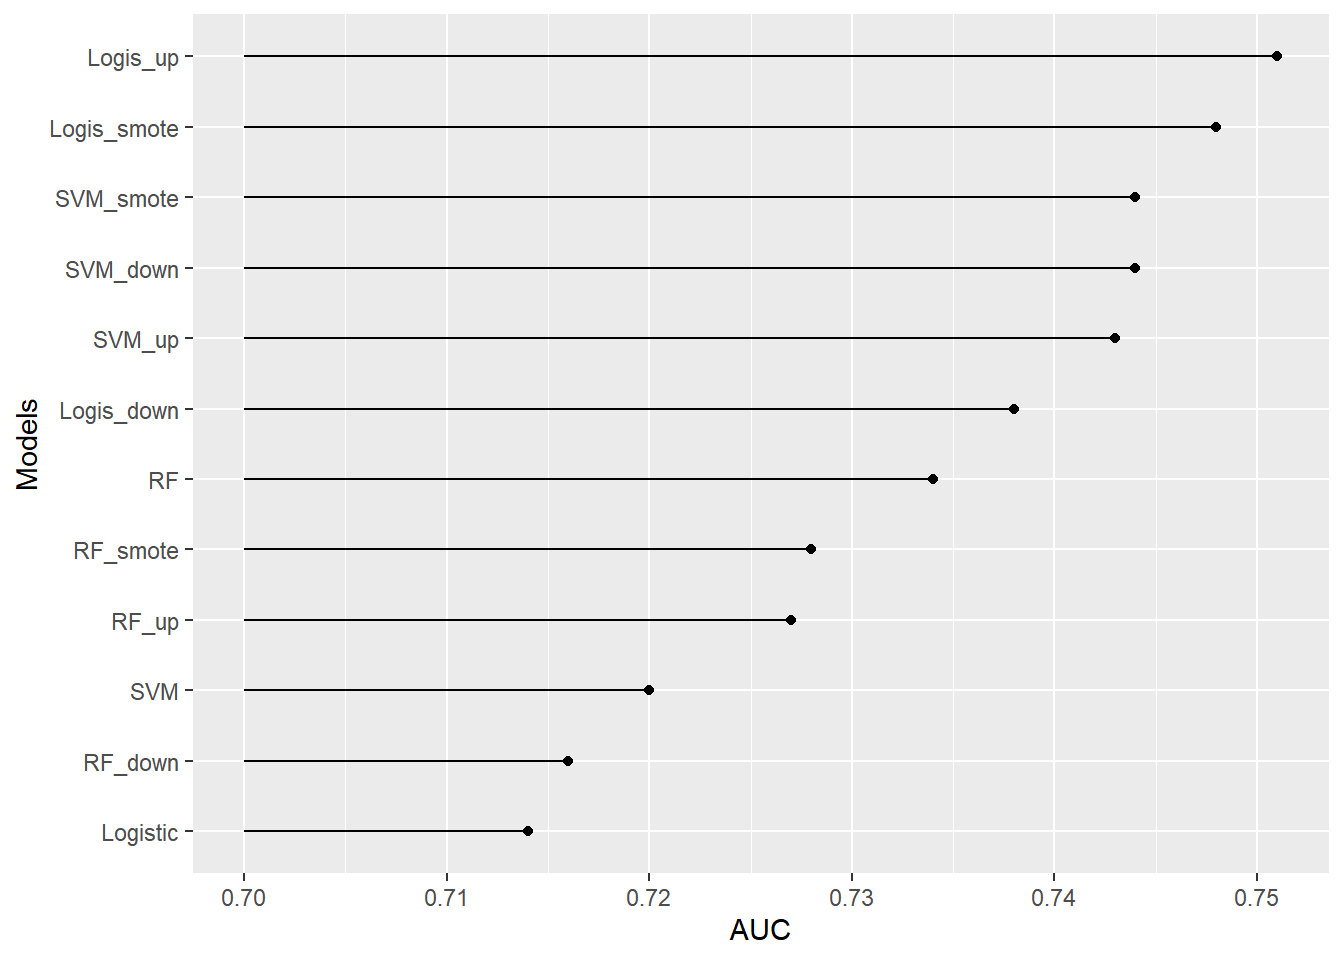
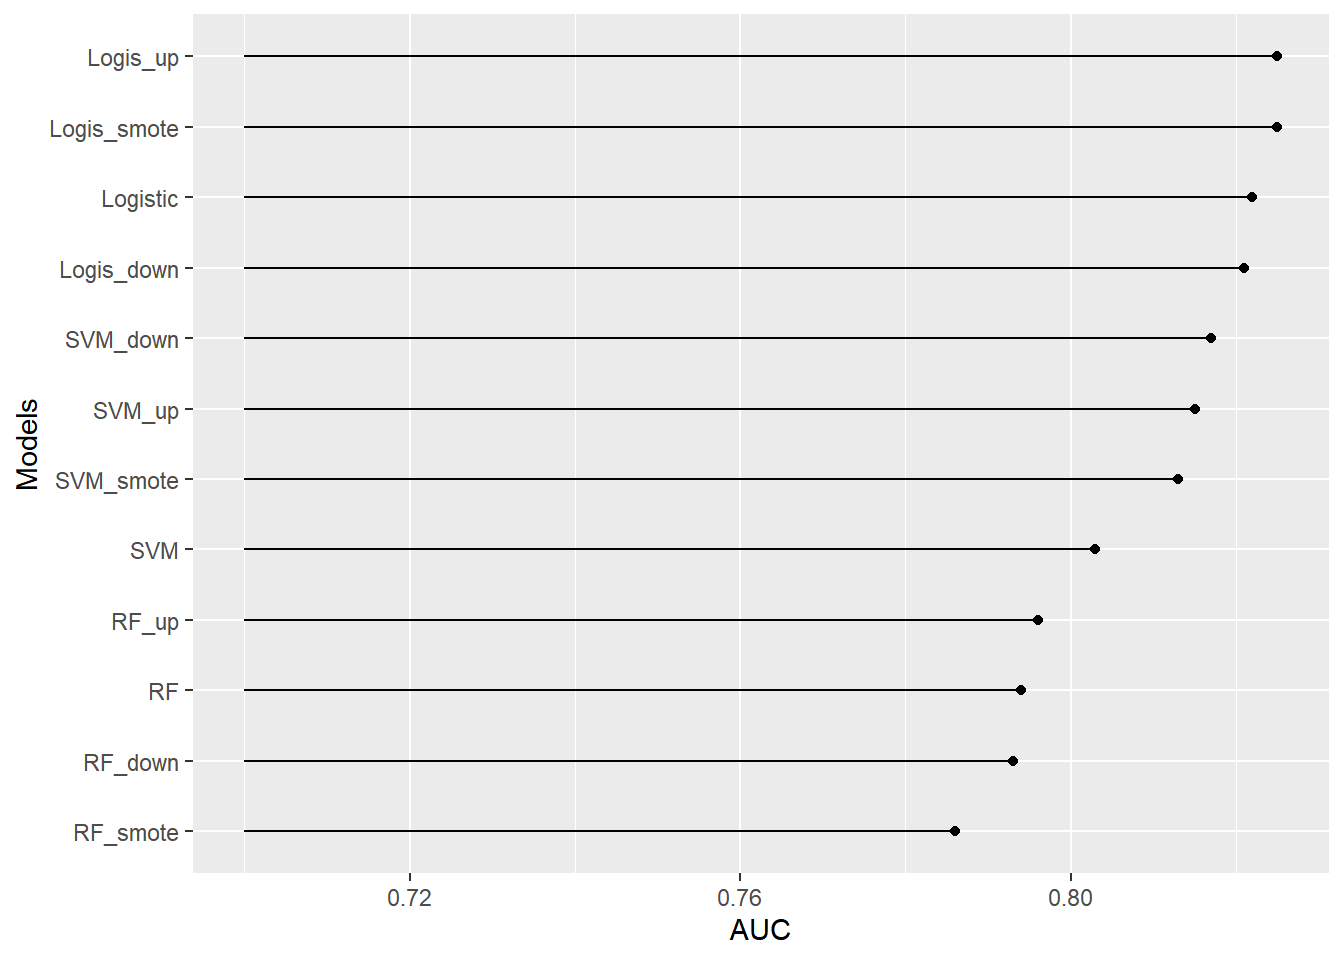
edit post

diff --git a/content/post/2024-02-16-classifying-depressed-and-healthy-controls/index.en.md b/content/post/2024-02-16-classifying-depressed-and-healthy-controls/index.en.md
@@ -1133,7 +1133,7 @@ for (num in 1:length(model_list)) {
     spe <- spe %>% append(confus$byClass[["Specificity"]])
     ppv <- ppv %>% append(confus$byClass[["Pos Pred Value"]])
     npv <- npv %>% append(confus$byClass[["Neg Pred Value"]])
-    ROC <- pROC::roc(as.numeric(test_set$group), as.numeric(prediction))
+    ROC <- pROC::roc(test_set$group, predict(model_list[[num]], test_set, type = "prob")[,"condition"])
     auc <- auc %>% append(pROC::auc(ROC))
 }
 
@@ -1156,18 +1156,18 @@ metric %>%
 
 ```
 ##          Model Accuracy Balance_ACC Sensitivity Specificity   PPV   NPV   AUC
-## 1     RF_smote    0.727       0.728       0.737       0.719 0.652 0.794 0.728
-## 2        RF_up    0.727       0.727       0.727       0.727 0.655 0.789 0.727
-## 3      RF_down    0.714       0.716       0.727       0.705 0.637 0.784 0.716
-## 4       SVM_up    0.748       0.743       0.717       0.770 0.689 0.793 0.743
-## 5   Logis_down    0.744       0.738       0.707       0.770 0.686 0.787 0.738
-## 6     Logis_up    0.761       0.751       0.697       0.806 0.719 0.789 0.751
-## 7  Logis_smote    0.756       0.748       0.697       0.799 0.711 0.787 0.748
-## 8     SVM_down    0.752       0.744       0.697       0.791 0.704 0.786 0.744
-## 9    SVM_smote    0.752       0.744       0.697       0.791 0.704 0.786 0.744
-## 10          RF    0.752       0.734       0.626       0.842 0.738 0.760 0.734
-## 11    Logistic    0.735       0.714       0.586       0.842 0.725 0.741 0.714
-## 12         SVM    0.744       0.720       0.576       0.863 0.750 0.741 0.720
+## 1     RF_smote    0.727       0.728       0.737       0.719 0.652 0.794 0.786
+## 2        RF_up    0.727       0.727       0.727       0.727 0.655 0.789 0.796
+## 3      RF_down    0.714       0.716       0.727       0.705 0.637 0.784 0.793
+## 4       SVM_up    0.748       0.743       0.717       0.770 0.689 0.793 0.815
+## 5   Logis_down    0.744       0.738       0.707       0.770 0.686 0.787 0.821
+## 6     Logis_up    0.761       0.751       0.697       0.806 0.719 0.789 0.825
+## 7  Logis_smote    0.756       0.748       0.697       0.799 0.711 0.787 0.825
+## 8     SVM_down    0.752       0.744       0.697       0.791 0.704 0.786 0.817
+## 9    SVM_smote    0.752       0.744       0.697       0.791 0.704 0.786 0.813
+## 10          RF    0.752       0.734       0.626       0.842 0.738 0.760 0.794
+## 11    Logistic    0.735       0.714       0.586       0.842 0.725 0.741 0.822
+## 12         SVM    0.744       0.720       0.576       0.863 0.750 0.741 0.803
 ```
 
 
